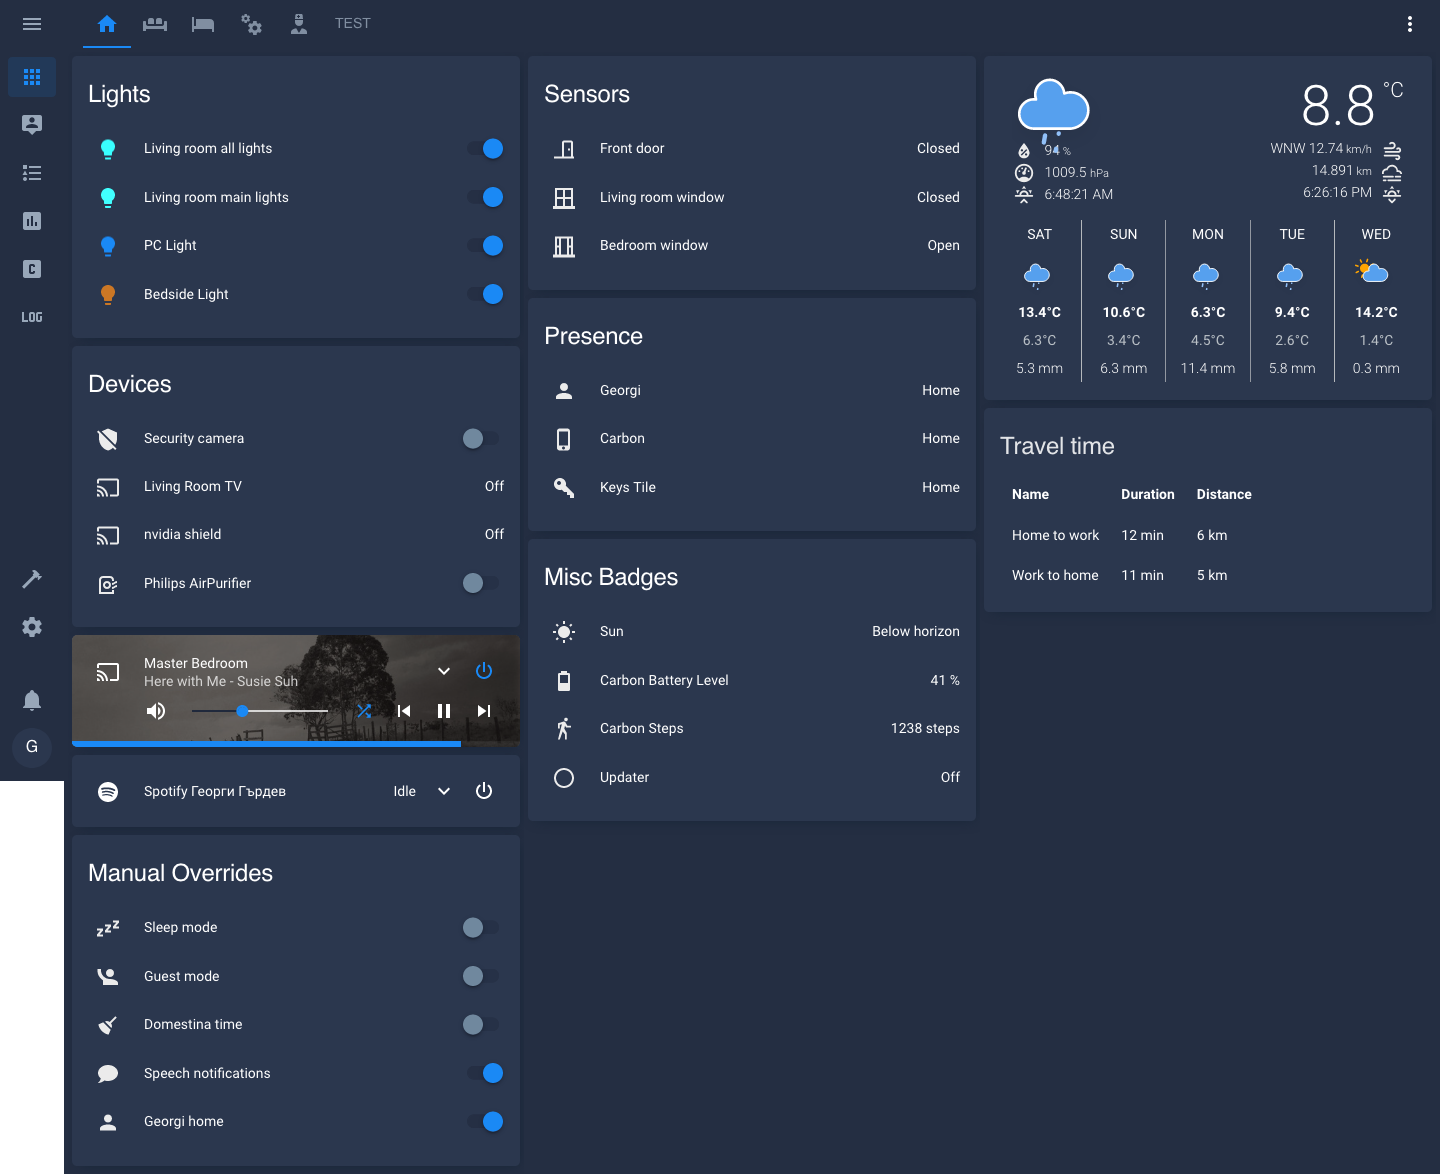
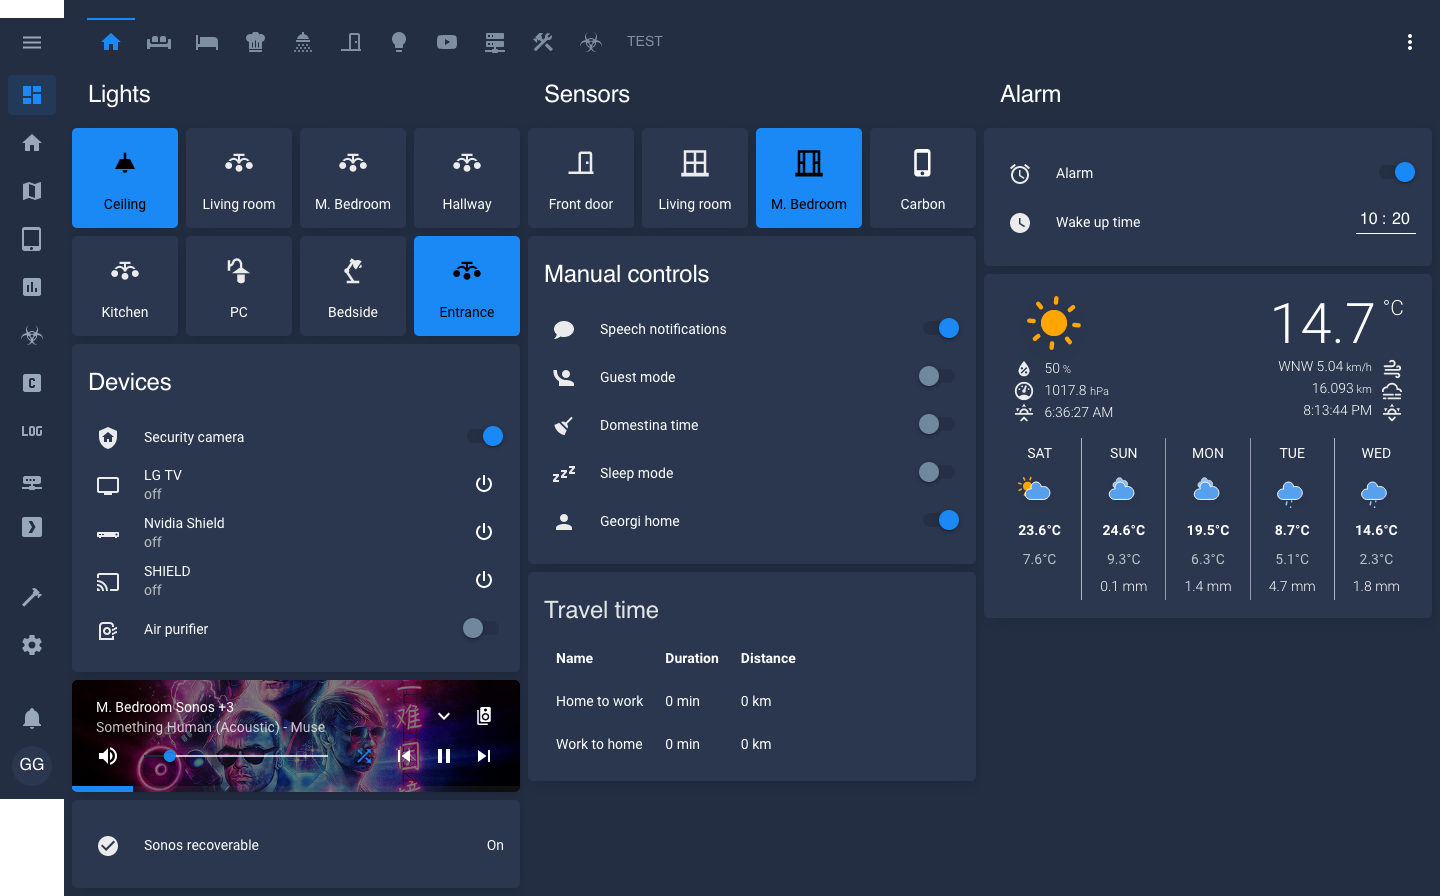
Update screenshots

diff --git a/README.md b/README.md
@@ -63,6 +63,14 @@ The `speech` module uses [partial templates](https://github.com/GeorgeSG/sarah/t
 
 ![Home Screen](assets/screenshot-home.png?raw=true)
 
+### Tablet view
+
+![Home Screen](assets/screenshot-tablet.png?raw=true)
+
+### Floorplan
+
+![Home Screen](assets/screenshot-floorplan.jpg?raw=true)
+
 ## Inspiration
 
 1. [Bear Stone Smart Home Documentation](https://github.com/CCOSTAN/Home-AssistantConfig)
